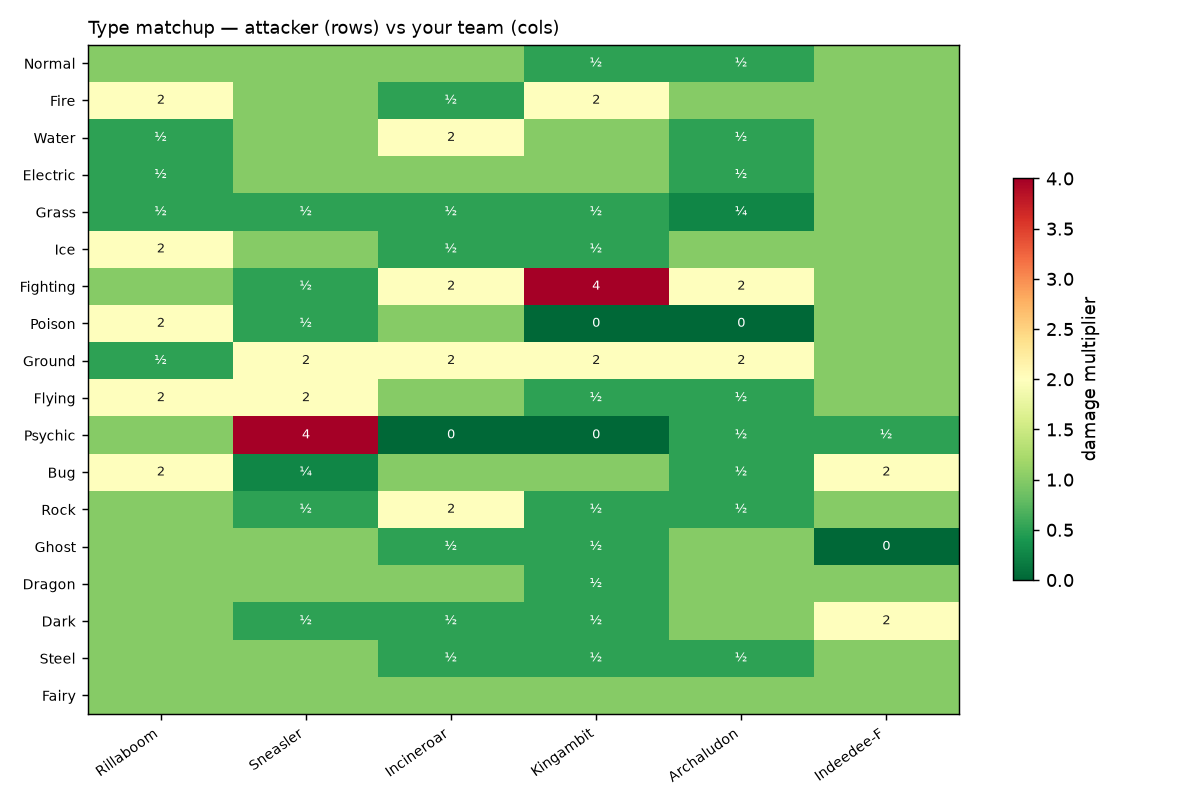
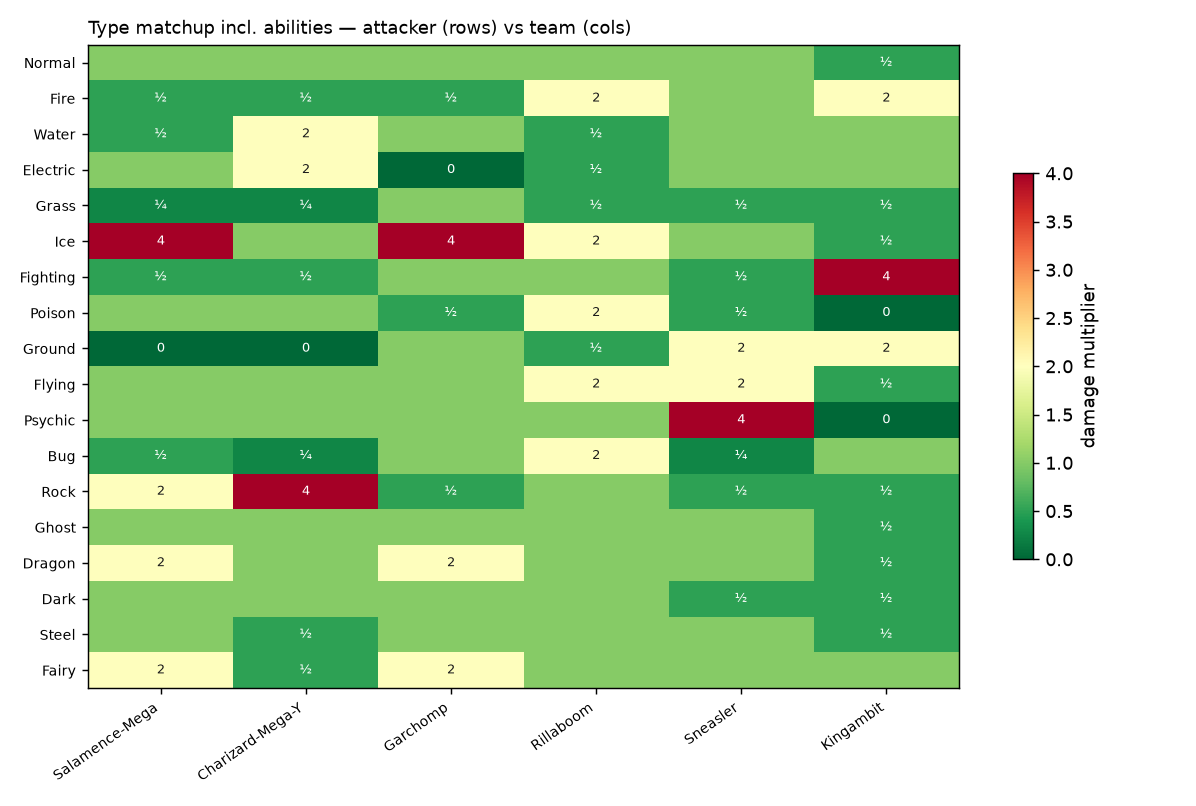
补全 README：特性规则层、场地天气、场地破坏

diff --git a/README.md b/README.md
@@ -64,13 +64,18 @@ Windows PowerShell 若报编码错误，先跑 `chcp 65001`。
 champions-lab/
 ├── data/
 │   ├── gen9champions*.json     # 对战统计
-│   └── pokedex.json            # 属性/种族值/特性
+│   ├── pokedex.json            # 属性/种族值/特性
+│   ├── moves.json              # 招式类型与威力
+│   └── rules/abilities.json    # 特性规则（属性免疫/减伤/换算/场地）
 ├── src/
 │   ├── loader.py               # chaos json → pandas
 │   ├── dex.py                  # 名字 → 属性（含 Mega 形态）
 │   ├── typechart.py            # 18×18 属性克制表
+│   ├── abilities.py            # 特性规则层：读 json，应用防御/进攻效果
+│   ├── threat.py               # 环境火力：每种属性在环境里有多强
+│   ├── fields.py               # 场地/天气分布与交互
 │   ├── report.py               # 环境分析 CLI
-│   ├── team.py                 # 队伍弱点分析 CLI
+│   ├── team.py                 # 队伍分析 CLI（理论 + 实战）
 │   └── fetch.py                # 下载
 ├── output/                     # PNG + CSV
 └── requirements.txt
@@ -96,12 +101,204 @@ output/usage_ranking.csv  完整使用率表
 
 ```
 output/team_matrix.png    18 属性 × 队伍成员 热力图
-output/team_danger.png    整队危险分
+output/team_danger.png    理论 vs 实战 双栏对比
 ```
 
-**危险分算法**：`弱点人数 × 2 − 抗性人数 − 免疫人数 × 2`
+**两个分数的区别（这是本项目的核心）**
 
-分数越高说明该属性越容易打穿整队。≥3 只被克时会单独提示。
+| 分数 | 算法 | 回答的问题 |
+|---|---|---|
+| **理论危险分** | `弱点人数×2 − 抗性 − 免疫×2` | 属性表上你怕什么 |
+| **实战风险分** | `(弱点人数/6) × 该属性环境火力` | 实战里真的会被什么打 |
+
+**只看属性表会误判。** 示例：一支队伍 3 只弱冰，理论危险分最高，
+但 VGC 环境里冰属性的火力只有 27%（前 60 名里冰属性宝可梦只有 2 只），
+所以实战风险只排第 6。真正该防的是**火**——队伍 2 只弱火，环境火力 100%。
+
+### 环境火力怎么算
+
+`src/threat.py` 从对战统计反推每种属性的出现强度：
+
+```
+presence[T] = Σ 每只宝可梦的使用率 × 它真正能用 T 属性打人的程度
+```
+
+"打人程度"由三件事决定：
+
+1. **招式威力**：按 `basePower/80` 加权（上限 1.5），40 威力的 Fake Out 不等于 120 威力的 Close Combat
+2. **特性转换属性**：见下
+3. **本系加成**：转换后的属性与自身属性相同时 ×1.5
+
+**不假设"是这个属性就一定有输出"。** Indeedee-F 是普通属性，但它只带
+Follow Me / Helping Hand / Trick Room，一个普通攻击招式都没有，
+不该被算成普通属性的威胁。
+
+### 特性规则层（`src/abilities.py` + `data/rules/abilities.json`）
+
+**机制写在 json 里，代码只负责读规则和套规则。** 加新特性 = 加一条数据，不改逻辑。
+
+环境里 212 种特性，前 45 名里真正影响对位的分四类：
+
+| 类别 | 规则文件字段 | 环境代表 |
+|---|---|---|
+| 属性免疫 | `immune_types` | **Levitate 21.5%**、Flash Fire 5.6%、Water Absorb、Volt Absorb、Sap Sipper、Earth Eater |
+| 属性减伤 | `type_mult` | Thick Fat（火/冰 ×0.5）、Heatproof、Water Bubble、Fluffy（火 ×2）、Dry Skin（火 ×1.25） |
+| 效果拔群减伤 | `se_mult` | Filter / Solid Rock / Prism Armor（×0.75） |
+| 满血减伤 | `full_hp_mult` | Multiscale / Shadow Shield（×0.5） |
+| **天气压制** | `negates_weather` | **Cloud Nine 无天气（1.18%）**、Air Lock 气闸（环境中暂无） |
+
+**Levitate 是这里最关键的一条**：环境里 21.5% 的宝可梦无视地面系。
+不算这个，队伍分析会把它们当"弱地面"，把 Ground 的风险算高一大截。
+
+同一只宝可梦的不同配置可能带不同特性，所以按 `Abilities` 里各特性的占比
+加权算期望值——结果可能是小数（比如 50% 带 Levitate 的宝可梦对地面的
+期望"免疫数"是 0.5）。
+
+**纯数值增幅不进对位计算**（硬爪 ×1.3、技术高手、无防守、威吓等），
+它们不改变属性关系，单独记在规则文件的 `offense_boost` 里备查。
+
+### 场地与天气（`src/fields.py`）
+
+```
+python -m src.fields
+```
+
+三件必须搞清的事：
+
+1. **异名之间互相覆盖，同名不会——但同名也不延长。** rain 和 sun 互抢；
+   两个都开 rain 不冲突，可是**回合数不会重置**，第二只冗余设定者换不来更多时间。
+   环境数据佐证：同场地设定者共现率几乎为 0（Indeedee-F 与 Indeedee 0.00%，
+   Pelipper 与 Politoed 0.12%）。第二名同名设定者只有"被抢掉后能再抢回来"的备用价值。
+2. **抢赢的是速度更慢的那只。** 特性在登场时触发，同回合后动的最后触发。
+   快的场地手先开会被慢的顶掉，**慢速队反而更能控场**。
+3. **Levitate / 飞行系不吃地面场地效果，但仍会触发场地种子道具**
+   （种子看场地是否存在，不看脚下是否接地）。
+
+**设定者强度**（有多少宝可梦会开它，不等于它能待多久）：
+
+| 场地/天气 | 相对强度 | 位置率 | 属性加成 |
+|---|---:|---:|---|
+| 青草场地 | 100% | 6.0% | 草 ×1.3 |
+| 精神场地 | 69% | 4.2% | 超能 ×1.3 |
+| 下雨 | 62% | 3.7% | 水 ×1.5 |
+| 晴天 | 60% | 3.6% | 火 ×1.5 |
+| 沙暴 | 28% | 1.7% | — |
+| 下雪 | 24% | 1.4% | 冰 ×1 |
+| 电气场地 | 18% | 1.1% | 电 ×1.3 |
+
+**被抢风险与站稳率**（已按慢速抢快折算）：
+
+| 场地/天气 | 对手带竞品 | 我方均速 | 竞品均速 | 我方更慢 | 站稳率 | 期望加成 |
+|---|---:|---:|---:|---|---:|---:|
+| 下雨 | 24% | 67 | 84 | 是 | **94%** | 1.47 |
+| 青草场地 | 19% | 85 | 91 | 是 | 92% | 1.28 |
+| 沙暴 | 31% | 67 | 80 | 是 | 91% | 1.00 |
+| 精神场地 | 25% | 88 | 87 | 否 | 87% | 1.26 |
+| 晴天 | 25% | 81 | 76 | 否 | 86% | 1.43 |
+| 电气场地 | 35% | 101 | 86 | 否 | 75% | 1.22 |
+| 下雪 | 32% | 111 | 72 | 否 | **71%** | 1.00 |
+
+**下雪和电气场地最容易掉**——不是因为设定者少，而是因为它们的设定者速度快
+（九尾阿罗拉、雷丘系），一上场就被慢速对手顶掉。雨天由 Pelipper / Politoed
+这类慢速手控制，所以最稳。
+
+**场地会被拆掉（招式，不是特性）**
+
+除了被对手抢，场地还能被招式直接清除：
+
+| 招式 | 效果 | 环境里谁带 |
+|---|---|---|
+| **冰旋** Ice Spinner | 命中后场地消失 | Weavile(13%)、Starmie-Mega(10%) |
+| **铁滚轮** Steel Roller | 130 威力，命中后场地消失，**没有场地时会失败** | Metagross-Mega(11%) |
+| 清除雾 Defog | 顺带清场地 | 环境中无人带 |
+| 换场 Court Change | **把你的场地直接换给对手** | 环境中无人带 |
+
+规则在 `data/rules/fields.json`。按"对手 4 只里至少带一只"折算，
+**拆场地概率 0.46%**——很低，但会从场地站稳率里扣掉。
+
+铁滚轮有个特点：**没有场地时它会失败**，所以它属于"你开场地我才用"的
+反制型招式，针对性比冰旋强。
+
+天气没有对应的拆解招式，只能被新天气覆盖或被 Cloud Nine 压制。
+
+**天气会被压制**
+
+`Cloud Nine`（无天气）/ `Air Lock`（气闸）在场时，**所有天气效果失效**：
+天气伤害归零、Swift Swim 等加速失效、气象球变回普通系。
+
+注意它**消除不了**天气本身——对手开的晴天仍然"存在"，只是不起作用，
+所以你抢回来的天气也不会因此变成你独占。
+
+环境里 `cloudnine` 加权 1.18%（Drampa、Altaria），按"对手 4 只里至少带一只"
+折算，**天气被压制的概率约 0.79%**，影响很小但已计入气象球的属性分布。
+这条**不影响场地**。
+
+**已知限制**
+
+- 速度用图鉴基础速度，未计性格与努力值
+- 抢赢概率用双方加权平均速度的逻辑斯蒂近似，实际是逐只对位
+- **持续回合数不建模**：特性天气通常 5 回合，到点自行消失。
+  `hold_rate` 只回答"会不会被对手抢掉"，不含"自己到期"
+
+### 场地是共用的，不是开的人独占
+
+**这是最容易吃亏的一点。** 天气/场地对全场生效，所以开场地可能是在给对手送强化。
+
+```
+python -m src.fields     # 第 4 节：场地共用风险
+```
+
+晴天之下，对手的气象球全部变成火属性：
+
+| 场地 | 气象球变成 | 谁受益（* = 本系加成） |
+|---|---|---|
+| **晴天** | **火** | Charizard-Mega-Y\*(23%)、**Pelipper(22%)**、Politoed(20%)、Torkoal\*(15%) |
+| 下雨 | 水 | Charizard-Mega-Y(23%)、**Pelipper\*(22%)**、Politoed\*(20%)、Torkoal(15%) |
+| 青草场地 | 草 | 全部非本系 |
+| 精神场地 | 超能 | 全部非本系 |
+
+**实战后果**：Pelipper（水/飞）在**你的晴天**里，气象球变成火属性，
+打你的草系（比如轰擂金刚猩）是效果拔群。等于你开的晴天帮对手补了一手火系打击面。
+
+`threat.py` 里气象球/大地波动不再排除，而是按"环境里各场地出现的概率"把贡献
+拆到对应属性上：
+
+```
+weatherball   Normal 60%, Water 14%, Fire 14%, Rock 7%, Ice 6%
+terrainpulse  Normal 58%, Grass 22%, Psychic 16%, Electric 4%
+```
+
+两者属性池不同（气象球不会变草/超能，大地波动不会变火/水），所以分开算。
+场地是共用的，这个分布同时代表"我方会被什么打"。
+
+### 特性会把招式属性转掉（重要）
+
+| 特性 | 效果 | 环境里的代表 |
+|---|---|---|
+| `aerilate` 飞行皮肤 | 普通系招式 → 飞行系，威力 ×1.2 | Salamence-Mega（巨声）、Pinsir-Mega |
+| `pixilate` 妖精皮肤 | 普通系招式 → 妖精系，威力 ×1.2 | Sylveon、Gardevoir-Mega、Altaria-Mega |
+| `refrigerate` 冰冻皮肤 | 普通系招式 → 冰系 | Glalie-Mega |
+| `galvanize` | 普通系招式 → 电系 | — |
+| `normalize` | 所有招式 → 普通系 | — |
+
+**不处理这个会算错。** 超级暴飞龙 100% 带飞行皮肤，巨声 23% 使用率，
+按普通系算会让 Normal 虚高、Flying 虚低。修正前后：
+
+| 属性 | 修正前 | 修正后 |
+|---|---:|---:|
+| Normal | 69% | **37%** |
+| Fairy | 41% | **63%** |
+| Flying | 34% | **47%** |
+
+同一只宝可梦的多套配置可能带不同特性，所以按 `Abilities` 里各特性的占比加权。
+
+### 已知限制
+
+- **气象球/大地波动按场地的出现概率分配属性**，不再排除（见下节）。但天气没有
+  常驻时的 100 威力翻倍没有建模，权重仍按基础 50 威力算。
+- **Fake Out 这类低威力但带效果的招式**按威力计权（40 BP → 0.5），
+  它的价值在先行+畏缩而不是伤害，所以无法完全反映其战术意义。
+- 低使用率宝可梦的对位胜率样本太少，`checks` 的胜率需要配合使用率一起看。
 
 ---
 
@@ -158,7 +355,10 @@ Mega 形态确认在环境中活跃：`Charizard-Mega-Y` 16.0%、`Raichu-Mega-Y`
 - [x] 数据层（多格式、多分段）
 - [x] 图鉴层（属性/种族值/Mega 形态）
 - [x] 环境分析（使用率/配置/克制/队友）
-- [x] 队伍弱点分析（属性矩阵 + 危险分）
+- [x] 队伍弱点分析（属性矩阵 + 理论危险分）
+- [x] **环境加权实战风险分**（`src/threat.py`）
+- [x] **特性规则层**（`src/abilities.py` + `data/rules/abilities.json`，覆盖 22 条防御类）
+- [x] **场地天气分布**（`src/fields.py`）
 - [ ] 伤害计算器（对接 Showdown damage-calc 规则）
 - [ ] 规则数据化（json 配置，不硬编码特性）
 - [ ] QQ 机器人接入
